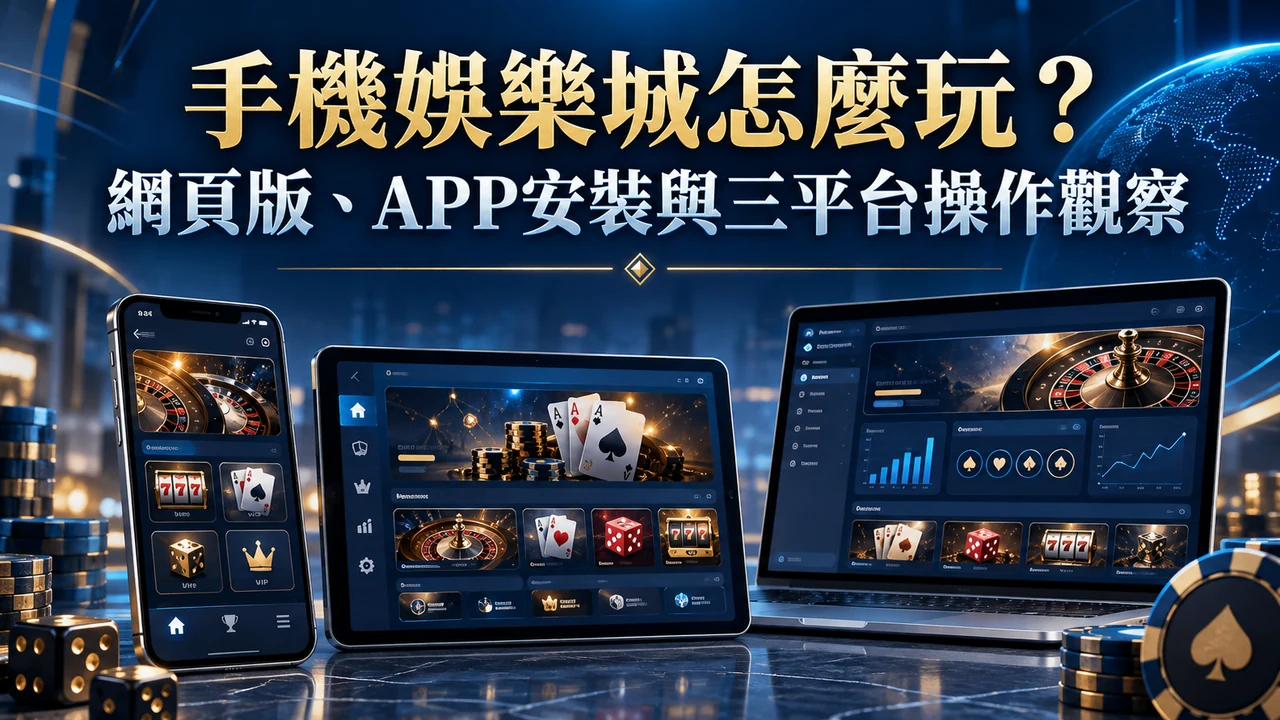
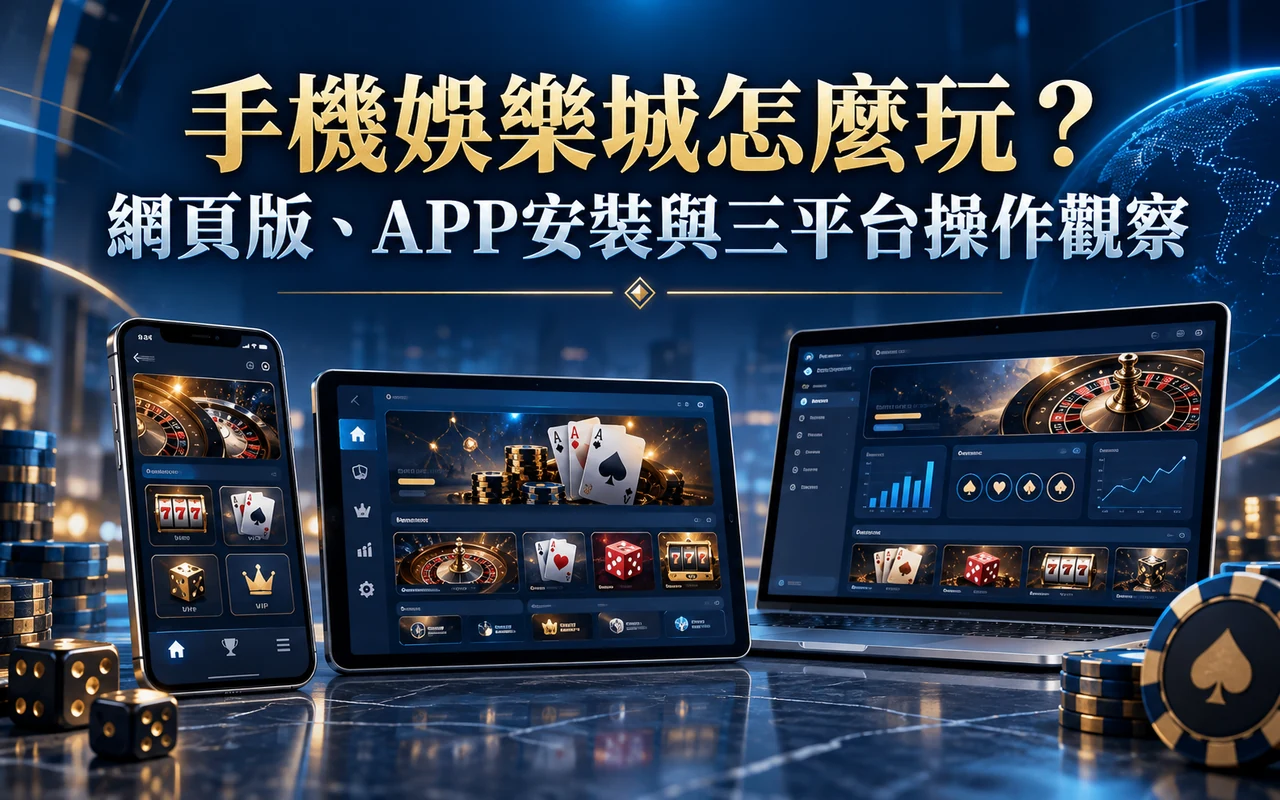
Preview revision 10c: formal cover replacement - 1280x800 webp, sync og/twitter/schema, new alt, remove picture fallback

diff --git a/articles/mobile-casino-guide.html b/articles/mobile-casino-guide.html
@@ -29,7 +29,7 @@
     <meta property="og:url" content="https://fun1399.com/articles/mobile-casino-guide">
     <meta property="og:title" content="手機娛樂城攻略｜網頁版與APP差異、iPhone安裝與實際操作（2026）">
     <meta property="og:description" content="手機娛樂城該用網頁版還是APP？以iPhone 14 Pro Max查看鉅城、MBM與HG樂遊手機頁面，整理下載入口、操作差異、儲值、客服與安全注意事項。">
-    <meta property="og:image" content="https://fun1399.com/static/images/articles/mobile-casino-guide-cover.jpg">
+    <meta property="og:image" content="https://fun1399.com/static/images/articles/mobile-casino-guide-cover.webp">
     <meta property="og:locale" content="zh_TW">
     <meta property="article:published_time" content="2026-05-17T00:00:00+08:00">
     <meta property="article:modified_time" content="2026-09-16T09:00:00+08:00">
@@ -37,7 +37,7 @@
     <meta property="article:section" content="攻略文章">
     <meta property="article:tag" content="手機娛樂城,手機娛樂城APP,手機娛樂城網頁版,鉅城娛樂城,MBM娛樂城,HG樂遊">
     <meta name="twitter:card" content="summary_large_image">
-    <meta name="twitter:image" content="https://fun1399.com/static/images/articles/mobile-casino-guide-cover.jpg">
+    <meta name="twitter:image" content="https://fun1399.com/static/images/articles/mobile-casino-guide-cover.webp">
     <meta name="twitter:title" content="手機娛樂城攻略｜網頁版與APP差異、iPhone安裝與實際操作（2026）">
     <meta name="twitter:description" content="手機娛樂城該用網頁版還是APP？以iPhone 14 Pro Max查看鉅城、MBM與HG樂遊手機頁面，整理下載入口、操作差異、儲值、客服與安全注意事項。">
 
@@ -169,7 +169,7 @@
             "@type": "Article",
             "headline": "手機娛樂城怎麼玩？網頁版、APP安裝與三平台操作觀察",
             "description": "手機娛樂城該用網頁版還是APP？以iPhone 14 Pro Max查看鉅城、MBM與HG樂遊手機頁面，整理下載入口、操作差異、儲值、客服與安全注意事項。",
-            "image": "https://fun1399.com/static/images/articles/mobile-casino-guide-cover.jpg",
+            "image": "https://fun1399.com/static/images/articles/mobile-casino-guide-cover.webp",
             "author": {
                 "@type": "Person",
                 "@id": "https://fun1399.com/author#hans",
@@ -248,15 +248,12 @@
             <h1>手機娛樂城怎麼玩？網頁版、APP安裝與三平台操作觀察</h1>
 
             <div class="article-hero-image">
-                <picture>
-                    <source srcset="/static/images/articles/mobile-casino-guide-cover.webp" type="image/webp">
-                    <img src="/static/images/articles/mobile-casino-guide-cover.jpg"
-                         alt="手機娛樂城攻略：網頁版與APP差異、iPhone安裝與三平台操作觀察（2026）"
-                         width="1280" height="720"
-                         loading="eager" fetchpriority="high" decoding="async"
-                         style="max-width: 100%; width: 100%; height: auto; object-fit: contain;">
-                </picture>
-                <p class="image-caption">手機娛樂城攻略：網頁版與APP差異、iPhone安裝與三平台操作觀察（2026）</p>
+                <img src="/static/images/articles/mobile-casino-guide-cover.webp"
+                     alt="手機娛樂城怎麼玩？網頁版、APP安裝與三平台操作觀察"
+                     width="1280" height="800"
+                     loading="eager" fetchpriority="high" decoding="async"
+                     style="max-width: 100%; width: 100%; height: auto; object-fit: contain;">
+                <p class="image-caption">手機娛樂城怎麼玩？網頁版、APP安裝與三平台操作觀察</p>
             </div>
 
             <div class="article-meta" style="display: flex; align-items: center; gap: 20px; margin-bottom: 30px; padding: 15px; background: rgba(255,255,255,0.05); border-radius: 8px; flex-wrap: wrap;">
